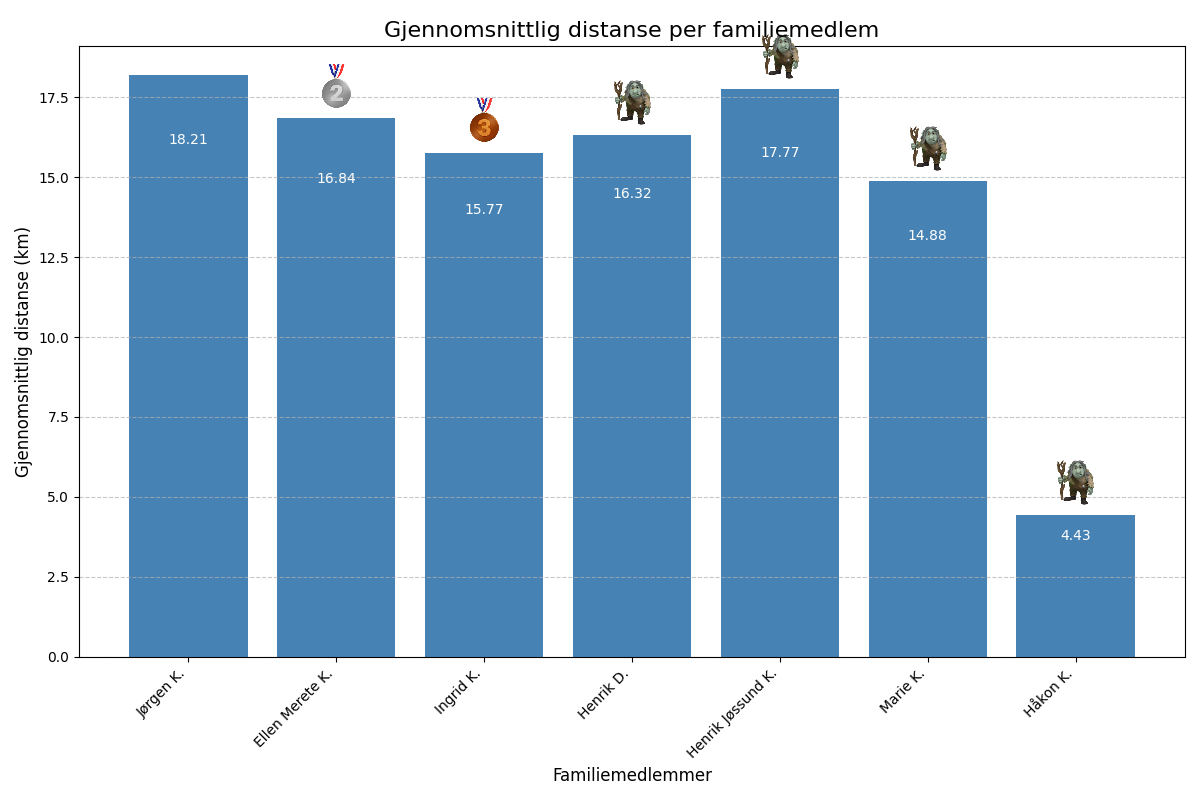
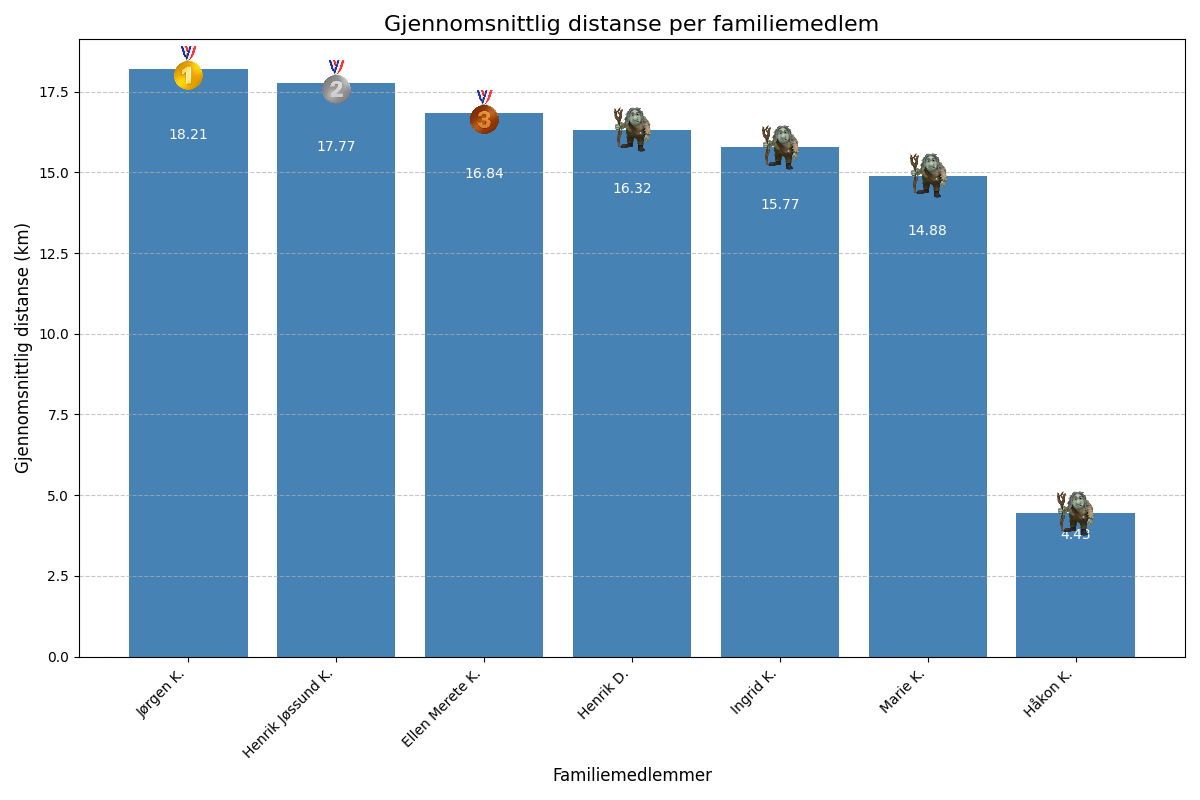
Update bar charts

diff --git a/README.md b/README.md
@@ -18,4 +18,4 @@
 ## Hyppighet er ikke alt..
 ![Nordic Ski Avg Distance plot](data/nordic_ski_avg_distance.png)
 
-_Updated on January 27, 2025 at 08:00 PM_
+_Updated on January 27, 2025 at 08:13 PM_
